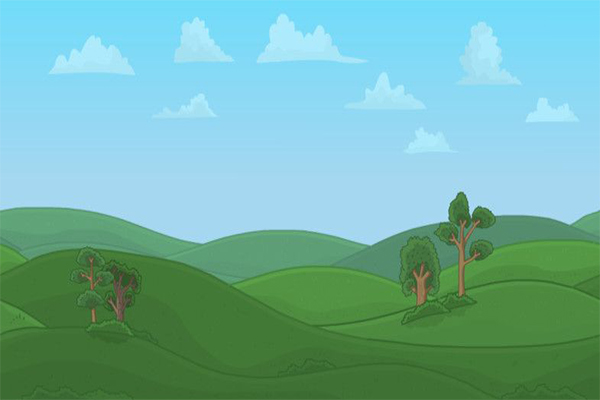
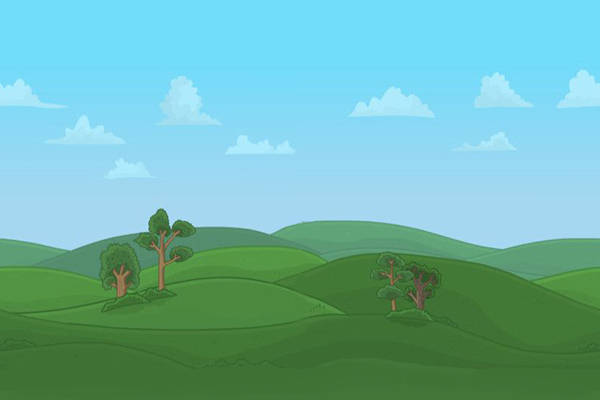
Parrallax scrolling

diff --git a/New Canvas Version/main.js b/New Canvas Version/main.js
@@ -11,15 +11,52 @@ let score = 0;
 let gameSpeed = 2;
 
 const background = new Image();
-background.src = '../background_hills.jpg';
+background.src ='../background_hills.jpg';
+const BG = {
+    x1: 0,
+    x2: canvas.width,
+    y: 0,
+    width: canvas.width,
+    height: canvas.height
+}
+function scrollBackground() {
+    if(BG.x1 <= -BG.width) BG.x1 = BG.width;
+    else BG.x1 -= gameSpeed + -1.7;
+    if(BG.x2 <= -BG.width) BG.x2 =BG.width;
+    else BG.x2 -= gameSpeed + -1.7;
+    ctx.drawImage(background, BG.x1, BG.y, BG.width, BG.height)
+    ctx.drawImage(background, BG.x2, BG.y, BG.width, BG.height)
+}
+
+const fence = new Image();
+fence.src ='../fence.png';
+const FG = {
+    x1: 0,
+    x2: canvas.width,
+    y: 300,
+    width: canvas.width,
+    height: 140
+}
+function scrollFence() {
+    if(FG.x1 <= -FG.width) FG.x1 = FG.width;
+    else FG.x1 -= gameSpeed + -1.4;
+    if(FG.x2 <= -FG.width) FG.x2 = FG.width;
+    else FG.x2 -= gameSpeed + -1.4;
+    ctx.drawImage(fence, FG.x1, FG.y, FG.width, FG.height)
+    ctx.drawImage(fence, FG.x2, FG.y, FG.width, FG.height)
+}
+
 
 function animate() {
     ctx.clearRect(0, 0, canvas.width, canvas.height);
-    // ctx.fillRect(10, canvas.height - 90, 50, 50);
-    ctx.drawImage(background, 0, 0, canvas.width, canvas.height);                
+    scrollBackground();
+    scrollFence();
+
     handleObstacles();
+    
     bee.update();
     bee.draw();
+    
     handleParticles();
     ctx.fillStyle = "red";
     ctx.font = "90px Georgia";
@@ -58,3 +95,7 @@ function handleCollisions() {
             }
     }
 }
+
+
+
+

diff --git a/New Canvas Version/obstacles.js b/New Canvas Version/obstacles.js
@@ -7,6 +7,7 @@ class Obstacle {
         this.x = canvas.width;
         this.width = 20;
         this.counted = false;
+        // this.vx = 0;
     }
     draw() {
         ctx.fillStyle = this.color;
@@ -20,6 +21,7 @@ class Obstacle {
     }
     update() {  
         this.x -= gameSpeed;
+        
         if (!this.counted && this.x < bee.x) {
             score++;
             this.counted = true;
@@ -39,3 +41,4 @@ function handleObstacles() {
         obstaclesArray.pop(obstaclesArray[0]);
     }
 }
+

diff --git a/New Canvas Version/bee.js b/New Canvas Version/bee.js
@@ -9,8 +9,8 @@ class Bee {
     }
     update() {
         let curve = Math.sin(angle) * 20;
-        if (this.y > canvas.height - (this.height * 3) + curve) {
-            this.y = canvas.height - (this.height * 3) + curve;
+        if (this.y > canvas.height - (this.height * 1.5) + curve) {
+            this.y = canvas.height - (this.height * 1.5) + curve;
             this.vy = 0;
         } else {
             this.vy += this.weight;

diff --git a/New Canvas Version/particles.js b/New Canvas Version/particles.js
@@ -2,9 +2,9 @@ const particlesArray = [];
 
 class Particle {
     constructor() {
-        this.x = bee.x;
-        this.y = bee.y;
-        this.size = Math.random() * 2 + 3;
+        this.x = bee.x + 20;
+        this.y = bee.y + 40;
+        this.size = Math.random() * 1.2;
         this.speedY = (Math.random() * 2) - 0.5;
     }
     update() {
